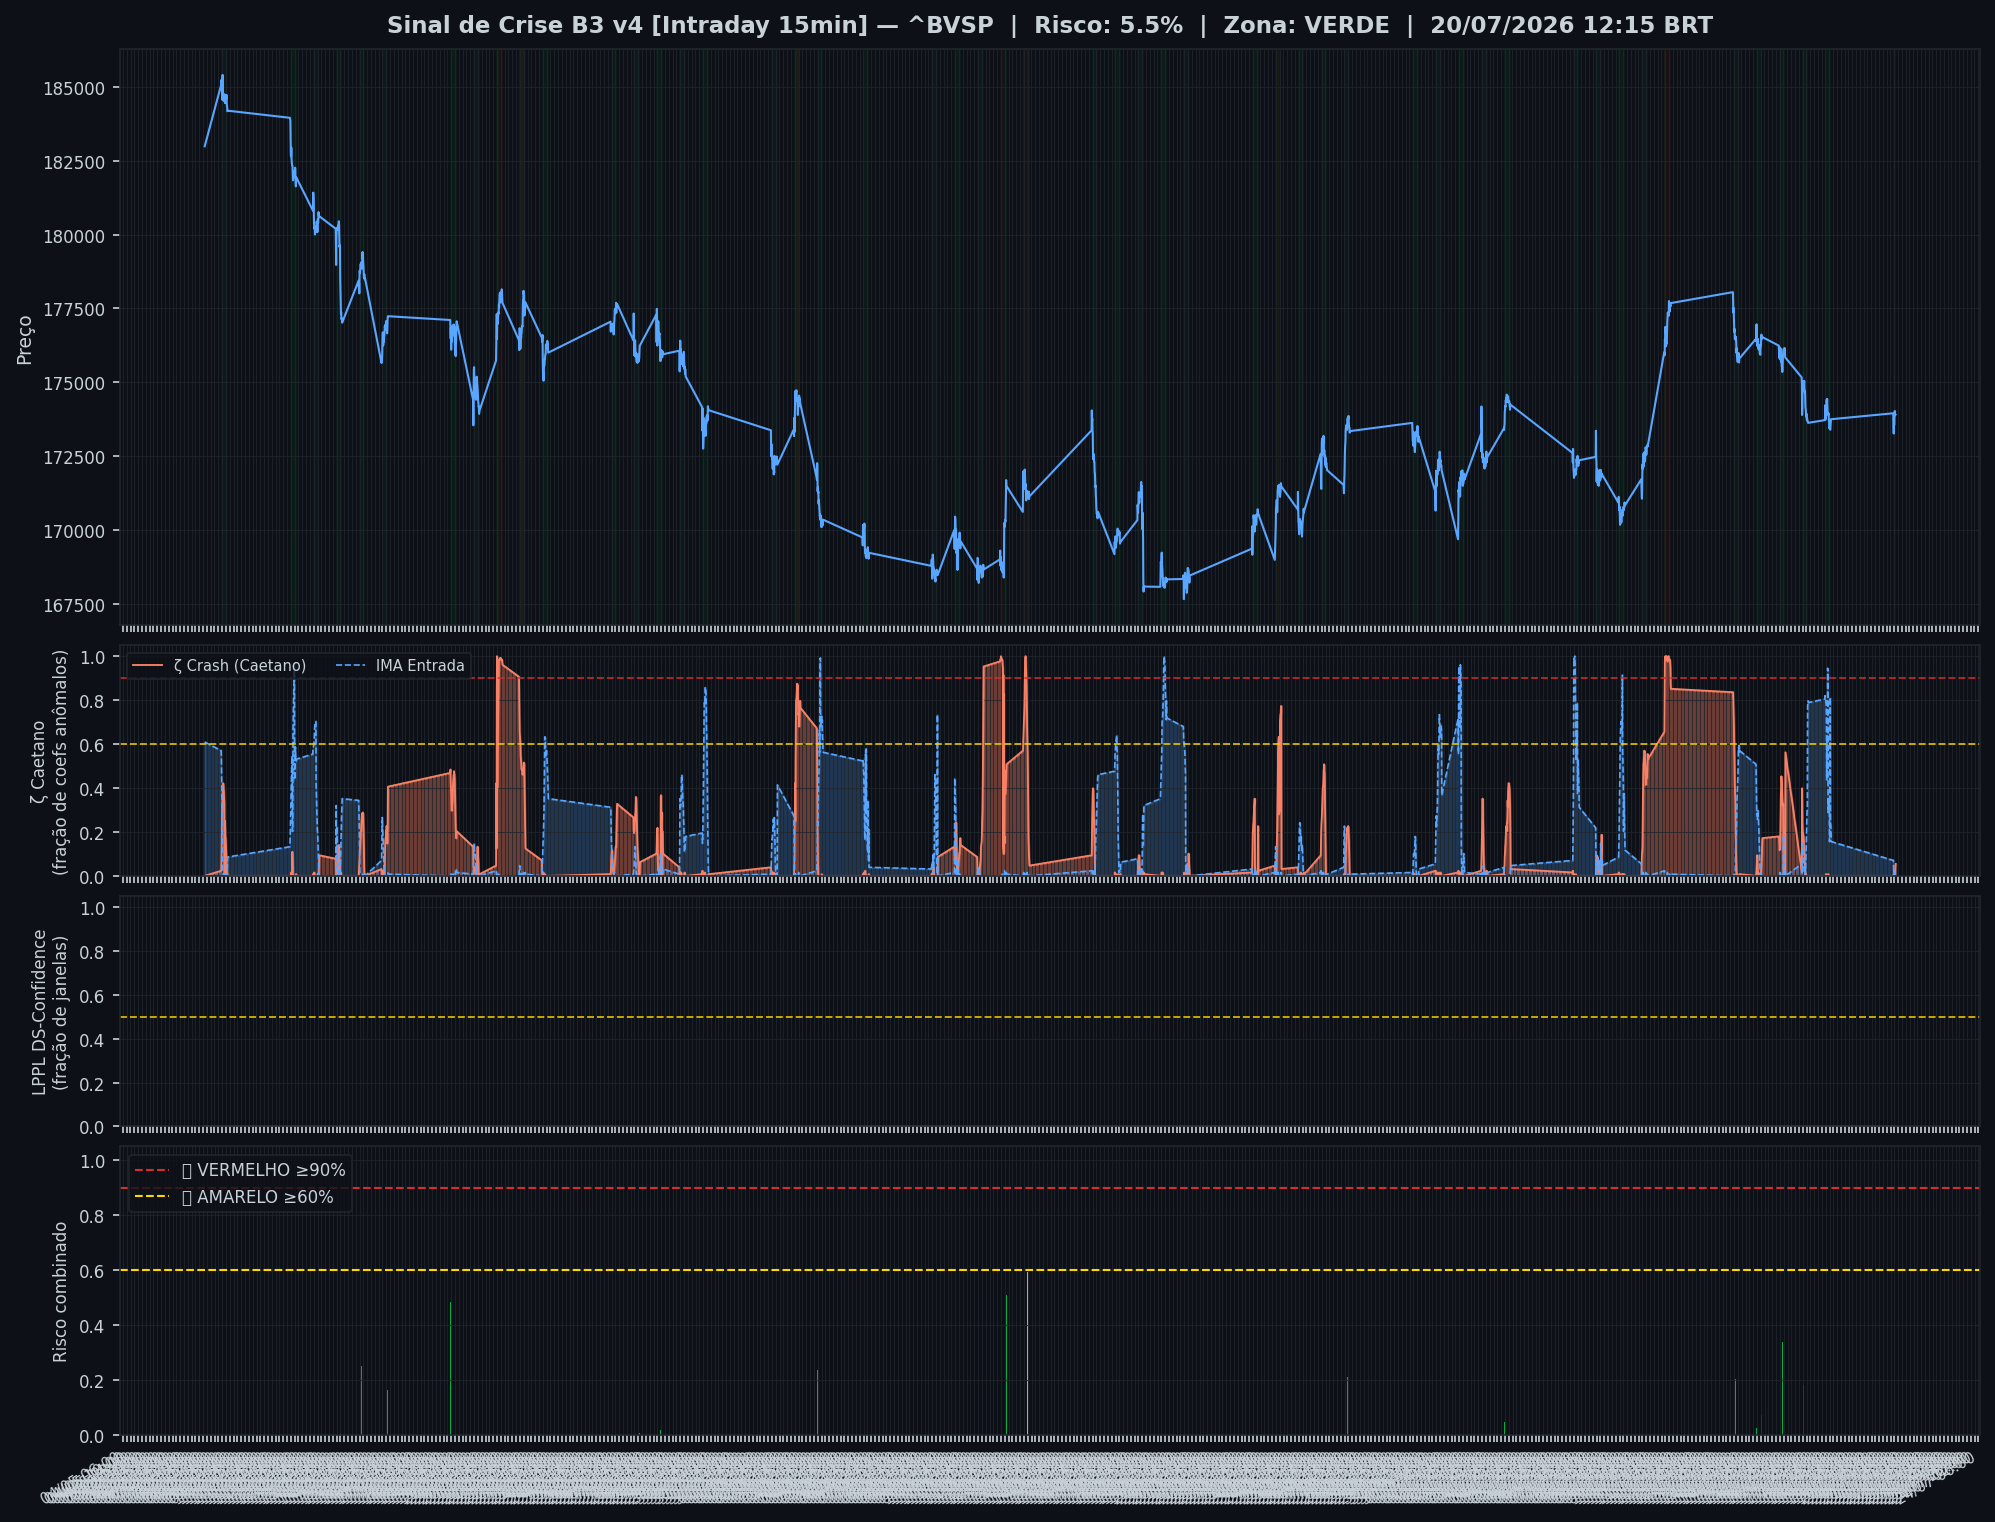
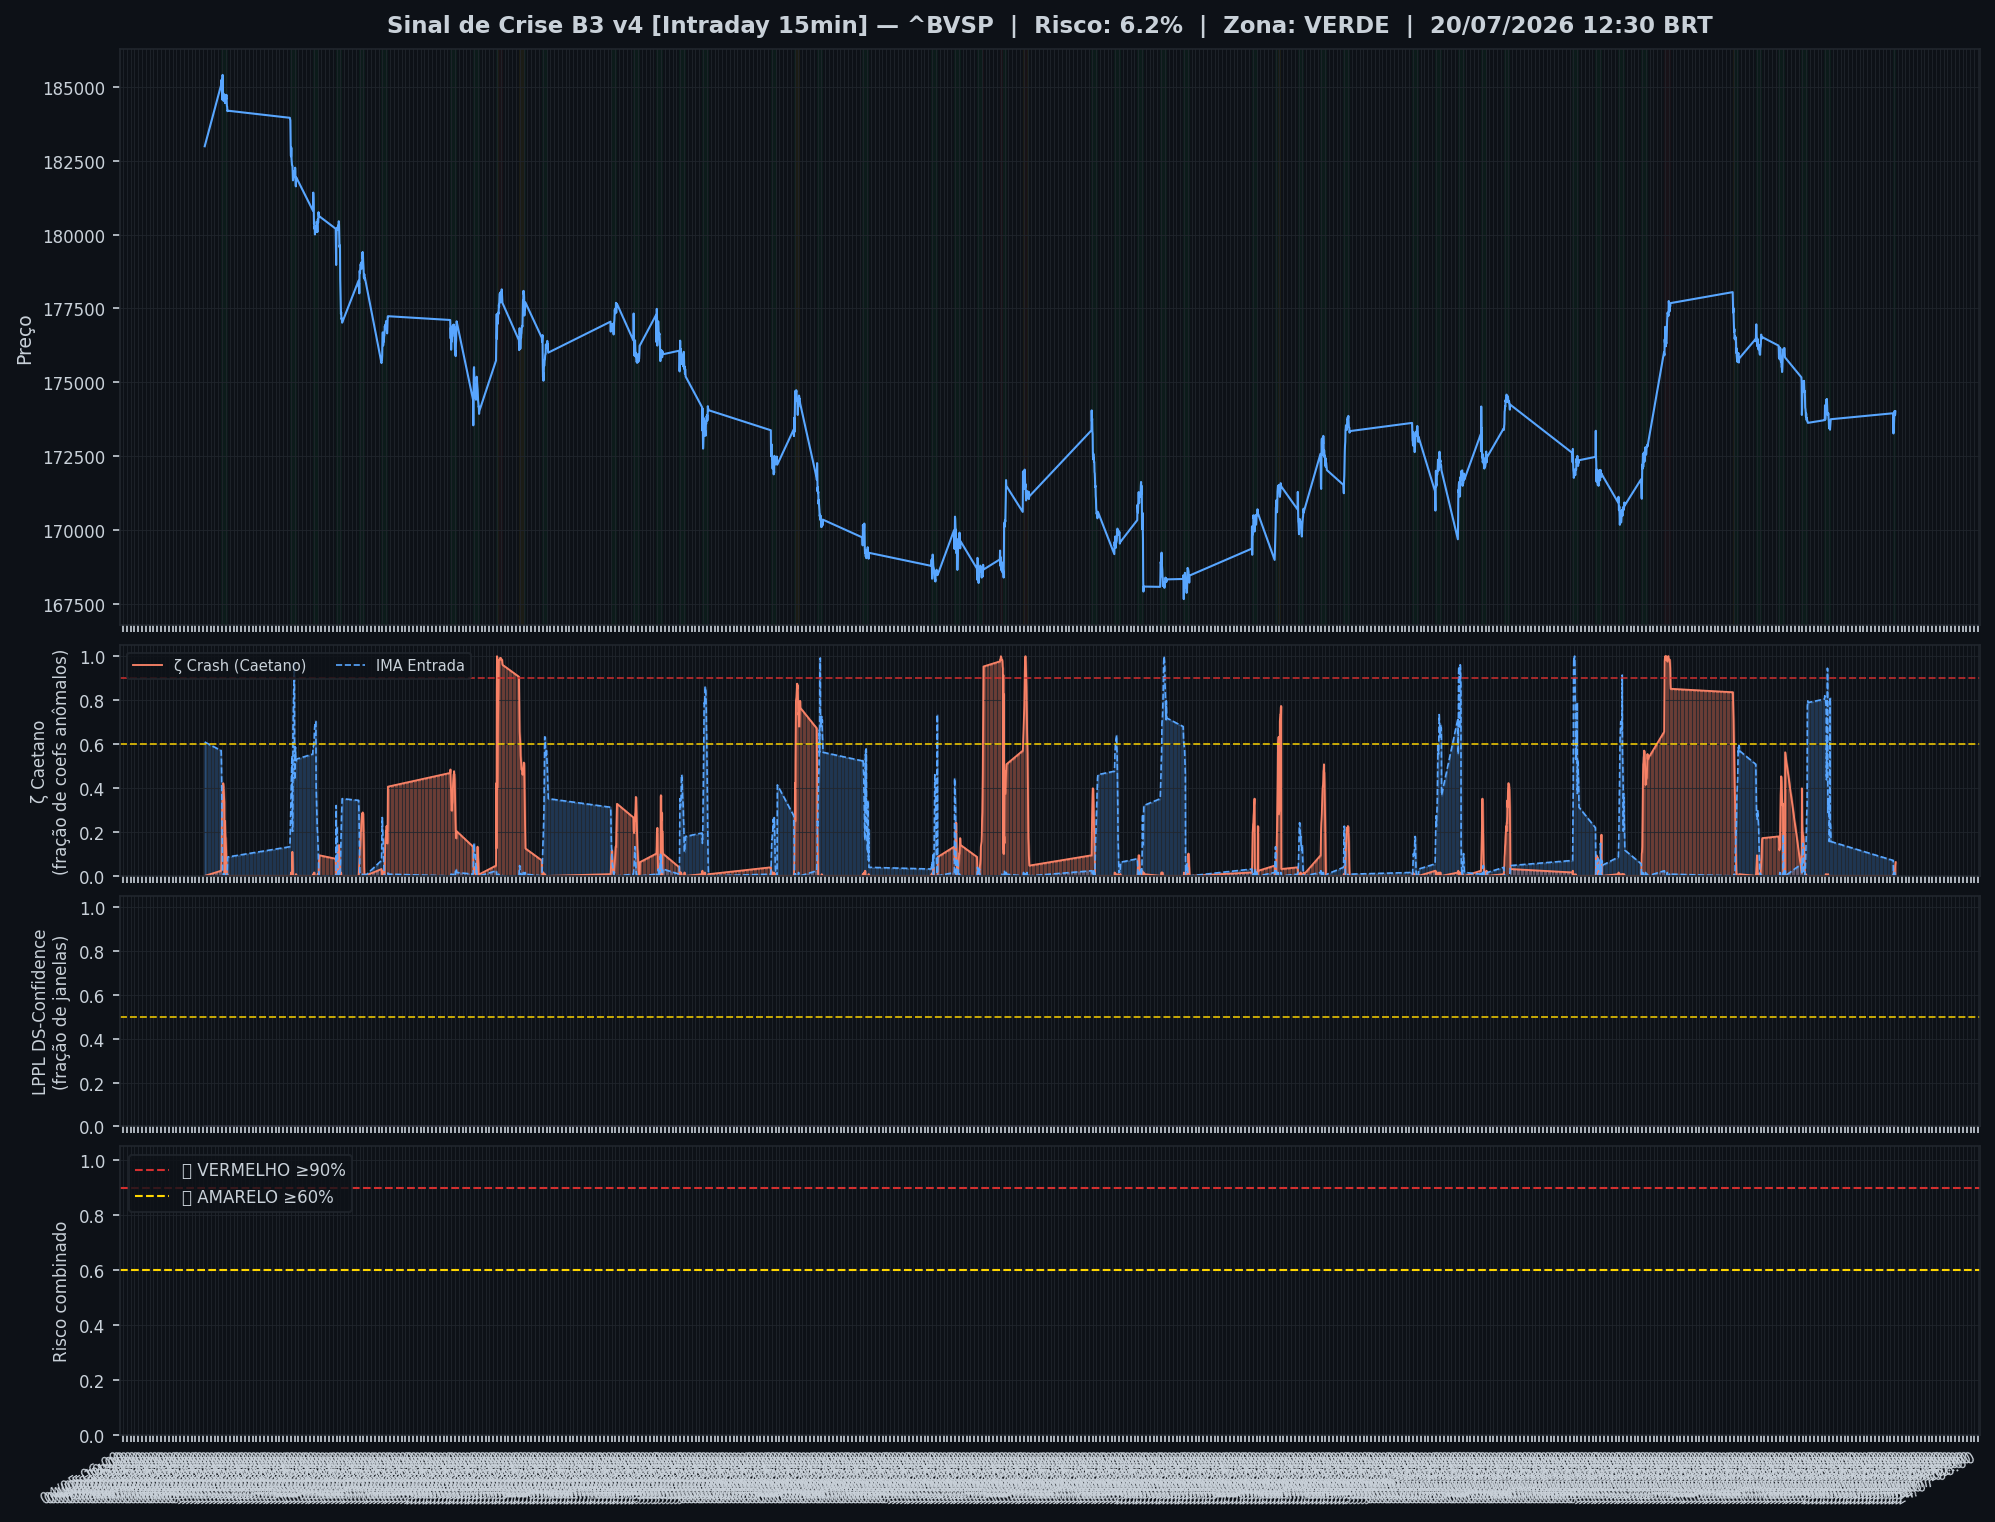
🤖 Auto: Sinal 20/07/2026 13:15

diff --git a/content/intraday/2026-07-20.md b/content/intraday/2026-07-20.md
@@ -1,20 +1,20 @@
 ---
-title: "🟢 Intraday 20/07/2026 12:15 BRT — VERDE"
+title: "🟢 Intraday 20/07/2026 12:30 BRT — VERDE"
 date: 2026-07-20
 tags: [intraday]
 ---
 
-> [!success] 🟢 **VERDE** — Risco 5% · ▲ +1 p.p. vs leitura anterior
+> [!success] 🟢 **VERDE** — Risco 6% · ▲ +1 p.p. vs leitura anterior
 > `█░░░░░░░░░░░░░░░░░░░`
 > Mercado sem sinais relevantes de estresse.
 
 
 | Indicador | Valor |
 |---|---|
-| 🔴 ζ Crash — severidade da queda em curso | **5%** |
+| 🔴 ζ Crash — severidade da queda em curso | **6%** |
 | 🔵 ζ Entrada — estrutura de fundo | 0% |
 | 🫧 LPPL DS-Confidence | 0% |
-| 📊 Ibovespa | 173.901 pts |
+| 📊 Ibovespa | 174.012 pts |
 
 ![Gráfico do sinal](../graficos/sinal_intraday.png)
 
@@ -22,6 +22,7 @@ tags: [intraday]
 
 | Data | Zona | Risco | IMA Crash | Entrada | LPPL |
 |---|---|---|---|---|---|
+| 2026-07-20 12:30 | 🟢 VERDE | **6%** | 6% | 0% | 0% |
 | 2026-07-20 12:15 | 🟢 VERDE | **5%** | 5% | 0% | 0% |
 | 2026-07-20 12:00 | 🟢 VERDE | **5%** | 5% | 0% | 0% |
 | 2026-07-20 11:45 | 🟢 VERDE | **3%** | 3% | 0% | 0% |
@@ -51,7 +52,6 @@ tags: [intraday]
 | 2026-07-17 12:45 | 🟢 VERDE | **0%** | 0% | 48% | 0% |
 | 2026-07-17 12:30 | 🟢 VERDE | **0%** | 0% | 56% | 0% |
 | 2026-07-17 12:15 | 🟢 VERDE | **0%** | 0% | 62% | 0% |
-| 2026-07-17 12:00 | 🟢 VERDE | **0%** | 0% | 44% | 0% |
 
 ## Monitor Multi-Ativo
 
@@ -59,37 +59,37 @@ tags: [intraday]
 
 | Zona | Ativo | Setor | IMA Crash | IMA Entrada |
 |---|---|---|---|---|
-| 🟢 | **VALE** | Mineração | 1.6% | 89.1% |
-| 🟢 | **ITAUUNIBANCO** | Financeiro | 1.6% | 89.1% |
-| 🟢 | **PETROBRAS** | Petróleo | 1.6% | 89.1% |
-| 🟢 | **PETROBRAS** | Petróleo | 1.6% | 89.1% |
-| 🟢 | **BRADESCO** | Financeiro | 1.6% | 89.1% |
-| 🟢 | **ITAUSA** | Financeiro | 1.6% | 89.1% |
-| 🟢 | **B3** | Financeiro | 1.6% | 89.1% |
-| 🟢 | **AMBEV S/A** | Consumo | 1.6% | 89.1% |
-| 🟢 | **WEG** | Industrial | 1.6% | 89.1% |
-| 🟢 | **BRASIL** | Financeiro | 1.6% | 89.1% |
-| 🟢 | **EMBRAER** | Outros | 1.6% | 89.1% |
-| 🟢 | **COPEL** | Energia | 1.6% | 89.1% |
-| 🟢 | **PRIO** | Petróleo | 1.6% | 89.1% |
-| 🟢 | **VIBRA** | Energia | 1.6% | 89.1% |
-| 🟢 | **LOCALIZA** | Aluguel | 1.6% | 89.1% |
+| 🟢 | **ENEVA** | Energia | 1.6% | 89.1% |
 | 🟢 | **ULTRAPAR** | Outros | 1.6% | 89.1% |
-| 🟢 | **GERDAU** | Siderurgia | 1.6% | 89.1% |
-| 🟢 | **SUZANO S.A.** | Papel/Celulose | 1.6% | 89.1% |
-| 🟢 | **BBSEGURIDADE** | Financeiro | 1.6% | 89.1% |
-| 🟢 | **AXIA ENERGIA** | Energia | 0.8% | 90.6% |
-| 🟢 | **SABESP** | Saneamento | 0.8% | 90.6% |
-| 🟢 | **BTGP BANCO** | Financeiro | 0.8% | 90.6% |
-| 🟢 | **EQUATORIAL** | Energia | 0.8% | 90.6% |
-| 🟢 | **ENEVA** | Energia | 0.8% | 90.6% |
-| 🟢 | **REDE D OR** | Saúde | 0.8% | 90.6% |
-| 🟢 | **TELEF BRASIL** | Outros | 0.8% | 90.6% |
-| 🟢 | **USD/BRL** | Câmbio | 0.8% | 86.7% |
+| 🟢 | **VALE** | Mineração | 0.8% | 86.7% |
+| 🟢 | **ITAUUNIBANCO** | Financeiro | 0.8% | 86.7% |
+| 🟢 | **PETROBRAS** | Petróleo | 0.8% | 86.7% |
+| 🟢 | **AXIA ENERGIA** | Energia | 0.8% | 86.7% |
+| 🟢 | **PETROBRAS** | Petróleo | 0.8% | 86.7% |
+| 🟢 | **BRADESCO** | Financeiro | 0.8% | 86.7% |
+| 🟢 | **SABESP** | Saneamento | 0.8% | 86.7% |
+| 🟢 | **ITAUSA** | Financeiro | 0.8% | 86.7% |
+| 🟢 | **B3** | Financeiro | 0.8% | 86.7% |
+| 🟢 | **BTGP BANCO** | Financeiro | 0.8% | 86.7% |
+| 🟢 | **AMBEV S/A** | Consumo | 0.8% | 86.7% |
+| 🟢 | **WEG** | Industrial | 0.8% | 86.7% |
+| 🟢 | **BRASIL** | Financeiro | 0.8% | 86.7% |
+| 🟢 | **EMBRAER** | Outros | 0.8% | 86.7% |
+| 🟢 | **EQUATORIAL** | Energia | 0.8% | 86.7% |
+| 🟢 | **COPEL** | Energia | 0.8% | 86.7% |
+| 🟢 | **PRIO** | Petróleo | 0.8% | 86.7% |
+| 🟢 | **VIBRA** | Energia | 0.8% | 86.7% |
+| 🟢 | **REDE D OR** | Saúde | 0.8% | 86.7% |
+| 🟢 | **LOCALIZA** | Aluguel | 0.8% | 86.7% |
+| 🟢 | **GERDAU** | Siderurgia | 0.8% | 86.7% |
+| 🟢 | **SUZANO S.A.** | Papel/Celulose | 0.8% | 86.7% |
+| 🟢 | **BBSEGURIDADE** | Financeiro | 0.8% | 86.7% |
+| 🟢 | **TELEF BRASIL** | Outros | 0.8% | 86.7% |
+| 🟢 | **USD/BRL** | Câmbio | 0.0% | 85.2% |
 
 ![Monitor multi-ativo](../graficos/multi_intraday.png)
 
-*Página atualizada em 20/07/2026 13:00 BRT (leitura da barra de 2026-07-20 12:15 BRT).*
+*Página atualizada em 20/07/2026 13:15 BRT (leitura da barra de 2026-07-20 12:30 BRT).*
 
 > [!info]- Como interpretar (clique para expandir)
 > - **ζ Crash**: fração dos coeficientes wavelet acima do corte (Caetano & Yoneyama 2009). Escala absoluta: ζ=0,90 = 90% dos coeficientes anômalos — historicamente, quedas com ζ≥0,90 foram mais fundas e mais longas. **Mede a severidade do movimento em curso, não prevê o início da queda.**

diff --git a/content/index.md b/content/index.md
@@ -8,19 +8,19 @@ tags: [home]
 
 Monitoramento diário e intraday do Ibovespa — **IMA Wavelet** (Prof. Marco Antonio Leonel Caetano, ITA/INSPER) + **LPPL DS-Confidence** (Prof. Didier Sornette, ETH-Zurich).
 
-*Última atualização: 20/07/2026 13:00 BRT · ^BVSP · Intraday 15min · v4*
+*Última atualização: 20/07/2026 13:15 BRT · ^BVSP · Intraday 15min · v4*
 
-> [!success] 🟢 **VERDE** — Risco 5% · ▲ +1 p.p. vs leitura anterior
+> [!success] 🟢 **VERDE** — Risco 6% · ▲ +1 p.p. vs leitura anterior
 > `█░░░░░░░░░░░░░░░░░░░`
 > Mercado sem sinais relevantes de estresse.
 
 
 | Indicador | Valor |
 |---|---|
-| 🔴 ζ Crash — severidade da queda em curso | **5%** |
+| 🔴 ζ Crash — severidade da queda em curso | **6%** |
 | 🔵 ζ Entrada — estrutura de fundo | 0% |
 | 🫧 LPPL DS-Confidence | 0% |
-| 📊 Ibovespa | 173.901 pts |
+| 📊 Ibovespa | 174.012 pts |
 
 **Multi-ativo:** 0% em tensão (0🔴 0🟡 de 27 ativos)
 
@@ -32,7 +32,7 @@ Monitoramento diário e intraday do Ibovespa — **IMA Wavelet** (Prof. Marco An
 
 | Data | Zona | Risco | IMA | LPPL |
 |---|---|---|---|---|
-| [20 Jul 2026](diario/2026-07-20) | 🟢 VERDE | **5%** | 5% | 0% |
+| [20 Jul 2026](diario/2026-07-20) | 🟢 VERDE | **6%** | 6% | 0% |
 | [17 Jul 2026](diario/2026-07-17) | 🟢 VERDE | **0%** | 0% | 0% |
 
 ## Navegação

diff --git a/content/historico.md b/content/historico.md
@@ -7,6 +7,7 @@ tags: [historico]
 
 | Data | Modo | Zona | Risco | IMA | LPPL |
 |---|---|---|---|---|---|
+| 2026-07-20 12:30 | intraday | 🟢 VERDE | 6% | 6% | 0% |
 | 2026-07-20 12:15 | intraday | 🟢 VERDE | 5% | 5% | 0% |
 | 2026-07-20 12:00 | intraday | 🟢 VERDE | 5% | 5% | 0% |
 | 2026-07-20 11:45 | intraday | 🟢 VERDE | 3% | 3% | 0% |
